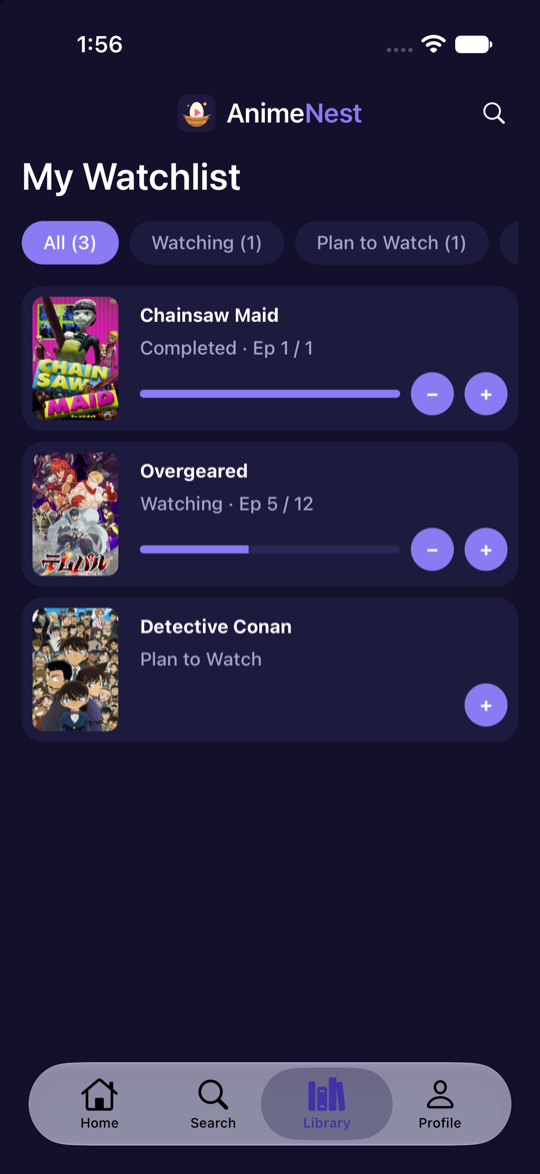
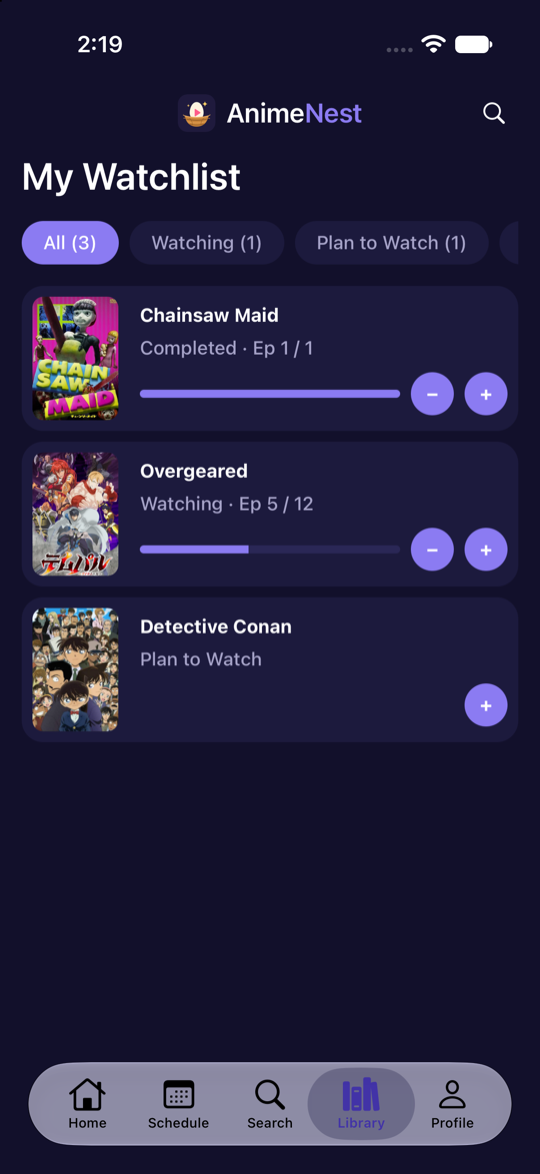
docs: update README and screenshots for schedule and genres

diff --git a/README.md b/README.md
@@ -6,16 +6,18 @@ Built with [Expo](https://expo.dev) (SDK 58), React Native and [Expo Router](htt
 
 ## Screenshots
 
-| Home | Search | Details |
-| :---: | :---: | :---: |
-| <img src="docs/screenshots/home.png" width="240" alt="Home feed" /> | <img src="docs/screenshots/search.png" width="240" alt="Search and filters" /> | <img src="docs/screenshots/detail.png" width="240" alt="Anime details" /> |
-| **Characters & cast** | **Watchlist** | **Profile** |
-| <img src="docs/screenshots/characters.png" width="240" alt="Characters and voice actors" /> | <img src="docs/screenshots/library.png" width="240" alt="My watchlist" /> | <img src="docs/screenshots/profile.png" width="240" alt="Profile stats" /> |
+| Home | Schedule | Search by genre | Details |
+| :---: | :---: | :---: | :---: |
+| <img src="docs/screenshots/home.png" width="190" alt="Home feed" /> | <img src="docs/screenshots/schedule.png" width="190" alt="Airing schedule" /> | <img src="docs/screenshots/search.png" width="190" alt="Search with genre filter" /> | <img src="docs/screenshots/detail.png" width="190" alt="Anime details" /> |
+| **Characters & cast** | **Watchlist** | **Profile** | |
+| <img src="docs/screenshots/characters.png" width="190" alt="Characters and voice actors" /> | <img src="docs/screenshots/library.png" width="190" alt="My watchlist" /> | <img src="docs/screenshots/profile.png" width="190" alt="Profile stats" /> | |
 
 ## Features
 
 - **Home feed:** trending this season carousel, top airing now and all-time popular rows
-- **Search:** debounced search with All Types, TV, Movie and Top Rated filters
+- **Airing schedule:** the next 7 days of episodes, grouped by day with air times, plus a "next episode" countdown on each anime
+- **Genre browsing:** genre chips on Home and Search, and tappable genre tags on the detail screen
+- **Search:** debounced search with All Types, TV, Movie and Top Rated filters, combinable with a genre
 - **Details:** banner, score, rank, synopsis, genres and info, with Overview, Characters (Japanese voice actors, recommendations) and Related tabs
 - **Watchlist:** add anime in one tap, set Watching / Plan to Watch / Completed, and track episode progress. Stored on the device (SQLite on native, `localStorage` on web)
 - **Profile:** simple stats from your watchlist
@@ -80,7 +82,7 @@ The template signs release builds with the debug keystore, which is fine for sid
 src/
   app/                    Routes only (file-based routing)
     _layout.tsx           Root stack and theme
-    (tabs)/               Home, Search, Library, Profile
+    (tabs)/               Home, Schedule, Search, Library, Profile
     anime/[id].tsx        Anime detail screen
   components/
     ui/                   Shared building blocks (button, chip, tag, states, icon...)
@@ -90,6 +92,7 @@ src/
   features/
     anime/                AniList API client and queries, types, formatters,
                           data hooks and anime components
+    schedule/             Airing schedule query, day grouping, hook and row
     watchlist/            Storage, store, hooks and watchlist components
   hooks/                  Generic hooks (use-async, use-debounced-value, use-theme)
   lib/                    Small helpers (navigation)
